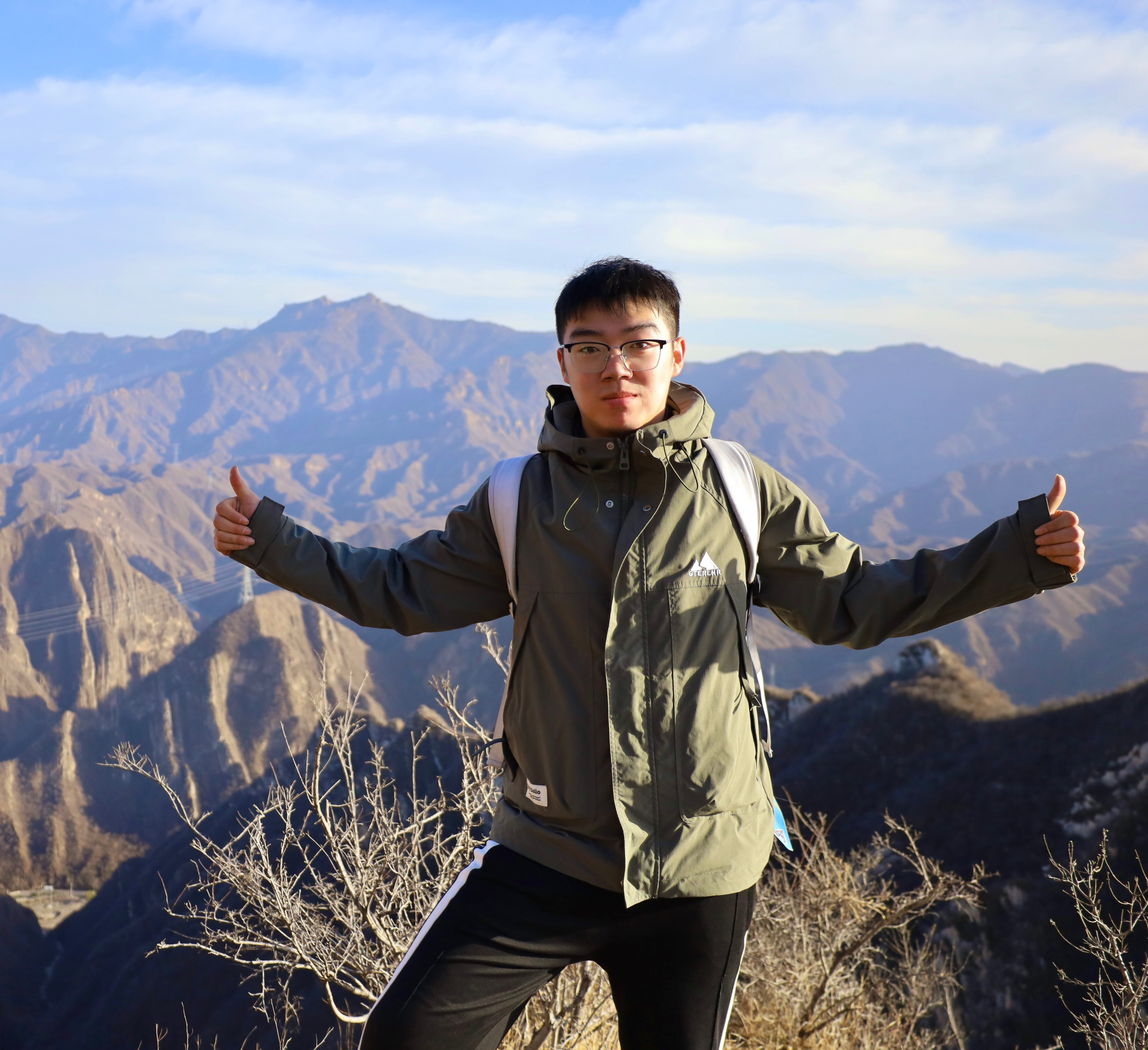
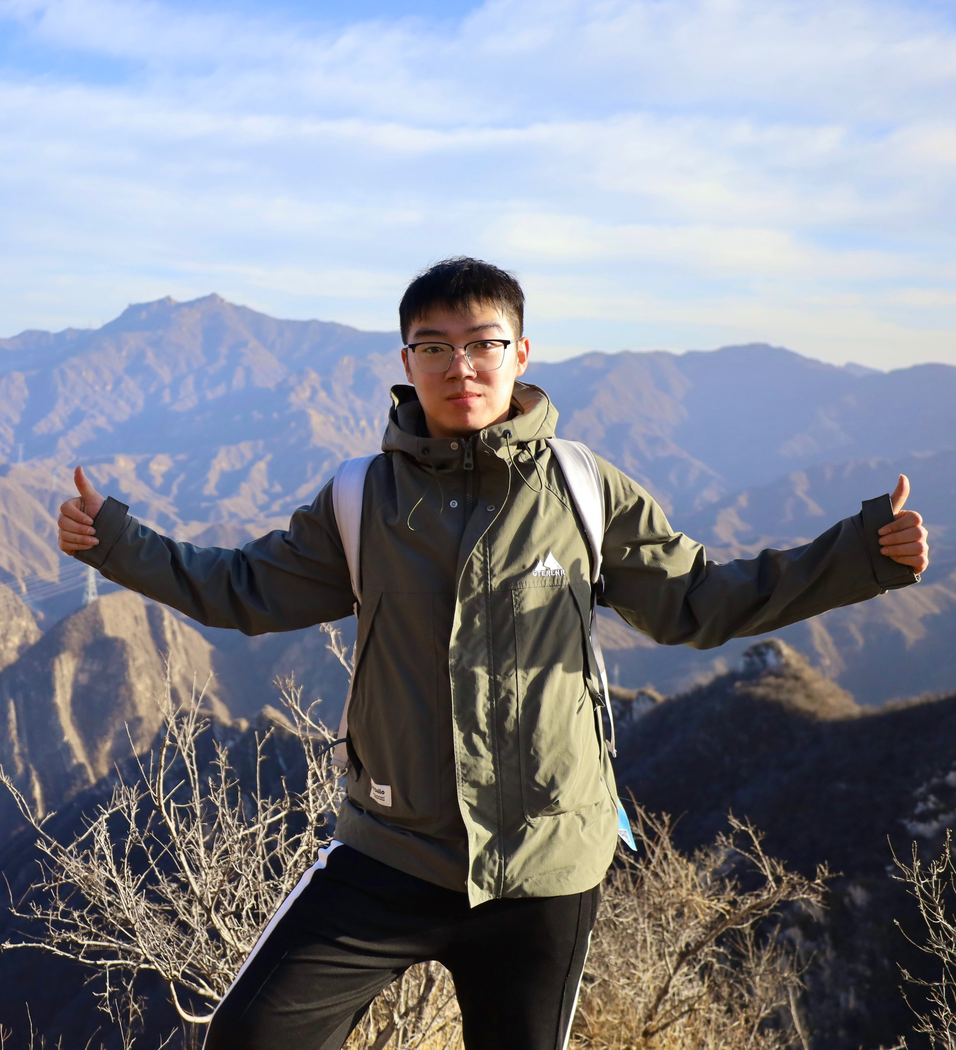
1

diff --git a/index.html b/index.html
@@ -22,7 +22,7 @@
 <h1>Lin Zhang</h1>   <!-- <p>右侧内容顶部名字</p> -->
 </div>
 <table class="imgtable"><tr><td>
-<img src="Lin_Zhang.jpg" alt="alt text" width="311px" height="284px" />&nbsp;</td>   <!-- <p>改：头像文件名</p> -->
+<img src="Lin_Zhang.jpg" alt="alt text" width="259px" height="284px" />&nbsp;</td>   <!-- <p>改：头像文件名</p> -->
 <td class="left-align"><p><b>Lin Zhang</b>, a third-year Ph.D. candidate at Beijing Institute of Technology.<br />
 <a href="https://scholar.google.com.hk/citations?user=4yb0RhMAAAAJ&hl=en">Google Scholar Profile</a> <br />
 <a href="https://github.com/Eric-ZhangL">Github Repos</a> <br />
